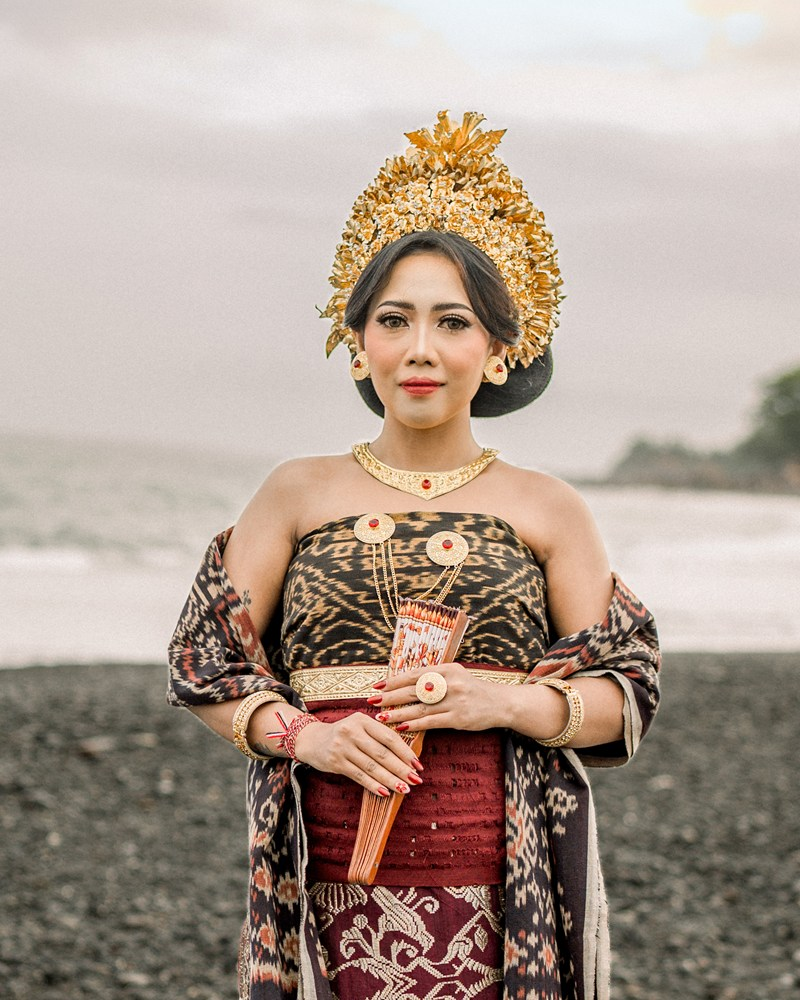
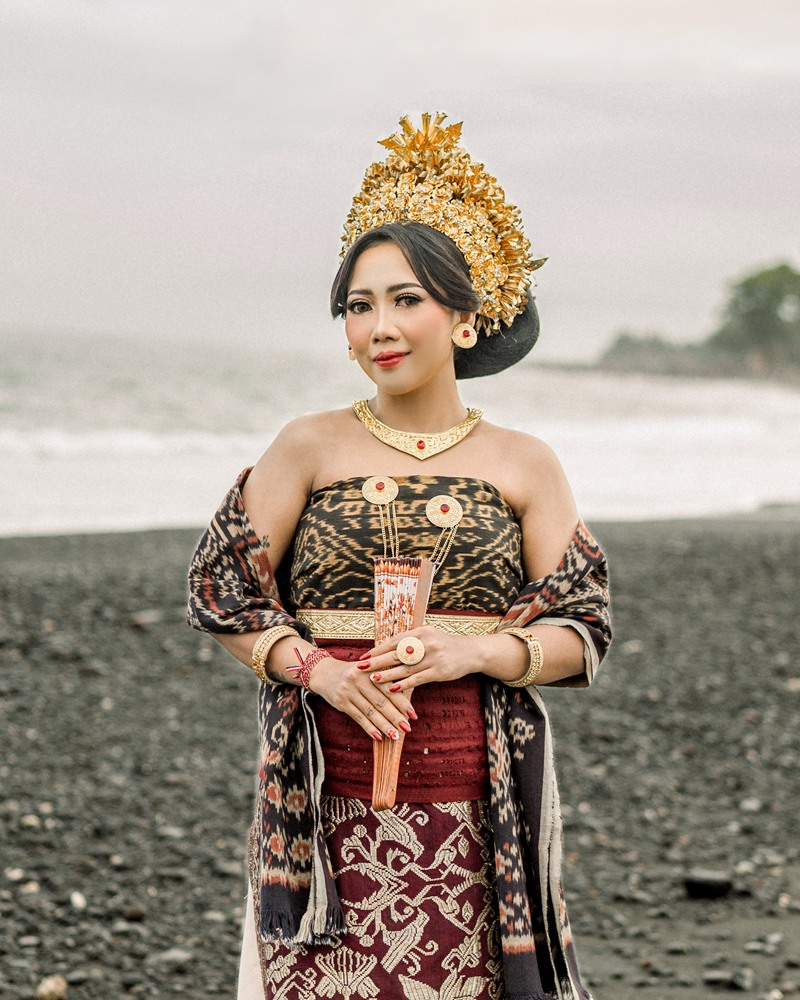
Revisi foto mempelai, kolase galeri, tipografi, dan sampul undangan

diff --git a/src/components/PhotoCollage.tsx b/src/components/PhotoCollage.tsx
@@ -1,0 +1,83 @@
+'use client';
+
+import React from 'react';
+import { GalleryPhoto } from '@/types/invitation';
+import { Reveal } from './Reveal';
+
+interface PhotoCollageProps {
+  photos: GalleryPhoto[];
+  startIndex: number;
+  onSelectPhoto: (globalIndex: number) => void;
+  title?: string;
+  sectionId?: string;
+}
+
+// Hand-placed mosaic on a 6-column grid: every tile has a different size
+// and shape (arch, leaf corners) so the collage feels loose, not like a table.
+const TILES = [
+  { area: 'col-start-1 col-end-5 row-start-1 row-end-6', shape: 'rounded-[12px] rounded-tl-[70px]', pos: 'center 30%' },
+  { area: 'col-start-5 col-end-7 row-start-1 row-end-4', shape: 'rounded-t-full rounded-b-[12px]', pos: 'center 25%' },
+  { area: 'col-start-5 col-end-7 row-start-4 row-end-9', shape: 'rounded-[12px]', pos: 'center' },
+  { area: 'col-start-1 col-end-3 row-start-6 row-end-13', shape: 'rounded-[12px] rounded-bl-[60px]', pos: 'center 40%' },
+  { area: 'col-start-3 col-end-5 row-start-6 row-end-9', shape: 'rounded-full', pos: 'center 30%' },
+  { area: 'col-start-3 col-end-7 row-start-9 row-end-13', shape: 'rounded-[12px] rounded-br-[70px]', pos: 'center 35%' },
+  { area: 'col-start-1 col-end-7 row-start-13 row-end-17', shape: 'rounded-[12px] rounded-tr-[80px] rounded-bl-[80px]', pos: 'center 45%' },
+];
+
+export function PhotoCollage({ photos, startIndex, onSelectPhoto, title, sectionId }: PhotoCollageProps) {
+  const items = photos.slice(0, TILES.length);
+  if (items.length === 0) return null;
+
+  return (
+    <section data-id={sectionId} className="w-full py-[22px] md:py-[32px]">
+      {title && (
+        <div className="max-w-[1140px] mx-auto px-[20px] pt-[12px] pb-[18px] text-center">
+          <Reveal variant="fadeInUp" className="flex justify-center mb-[10px]">
+            <img src="/images/divider-gold.svg" alt="" aria-hidden="true" className="w-[100px] h-auto mx-auto" />
+          </Reveal>
+          <Reveal variant="fadeInUp">
+            <h2 className="font-dynalight text-[35px] md:text-[45px] leading-[1.2] font-normal text-[#A59071]">
+              {title}
+            </h2>
+          </Reveal>
+        </div>
+      )}
+
+      <div className="max-w-[560px] mx-auto px-[12px] md:px-[24px]">
+        <div className="grid grid-cols-6 auto-rows-[40px] md:auto-rows-[58px] gap-[8px]">
+          {items.map((photo, idx) => {
+            const tile = TILES[idx];
+            return (
+              <Reveal
+                key={photo.id}
+                variant={idx % 3 === 0 ? 'zoomIn' : 'fadeInUp'}
+                delayMs={(idx % 3) * 120}
+                className={`${tile.area} h-full`}
+              >
+                <button
+                  type="button"
+                  onClick={() => onSelectPhoto(startIndex + idx)}
+                  aria-label={`Lihat foto ${photo.alt}`}
+                  className={`group relative block w-full h-full overflow-hidden cursor-zoom-in shadow-[0_14px_30px_-18px_rgba(60,40,10,0.7)] focus:outline-none focus-visible:ring-2 focus-visible:ring-[#A48C4D] ${tile.shape}`}
+                >
+                  <img
+                    src={photo.src}
+                    alt={photo.alt}
+                    loading="lazy"
+                    draggable={false}
+                    className="absolute inset-0 w-full h-full object-cover transition-transform duration-[1200ms] ease-out group-hover:scale-[1.05]"
+                    style={{ objectPosition: tile.pos }}
+                  />
+                  <span
+                    aria-hidden="true"
+                    className={`pointer-events-none absolute inset-[5px] border border-white/40 ${tile.shape}`}
+                  />
+                </button>
+              </Reveal>
+            );
+          })}
+        </div>
+      </div>
+    </section>
+  );
+}

diff --git a/src/components/InvitationClient.tsx b/src/components/InvitationClient.tsx
@@ -8,6 +8,7 @@ import { QuoteSection } from './QuoteSection';
 import { CoupleSection } from './CoupleSection';
 import { EventSection } from './EventSection';
 import { MasonryGallery } from './MasonryGallery';
+import { PhotoCollage } from './PhotoCollage';
 import { GuestbookSection } from './GuestbookSection';
 import { FooterSection } from './FooterSection';
 import { AudioPlayerHandle, FloatingAudioPlayer } from './FloatingAudioPlayer';
@@ -24,6 +25,11 @@ function sanitizeGuestName(raw: string | null | undefined): string {
   const cleaned = raw.replace(/\+/g, ' ').replace(/\\(['"\\])/g, '$1').trim();
   return cleaned;
 }
+
+// Collage under the Rg Veda: 7 hand-picked photos, mixed from every set
+const COLLAGE_IDS = ['g2-1', 'g1-6', 'g4-3', 'g1-3', 'g2-5', 'g2-2', 'g1-1'];
+// Single featured photo near the end before closing
+const FEATURED_END_IDS = ['g4-1'];
 
 export function InvitationClient({
   data,
@@ -49,15 +55,18 @@ export function InvitationClient({
     }
   }, []);
 
-  const gallery1Photos = useMemo(
-    () => [...data.galleries.part1, ...data.galleries.part2],
-    [data.galleries.part1, data.galleries.part2]
-  );
-
-  const gallery2Photos = useMemo(
-    () => [...data.galleries.part3, ...data.galleries.part4],
-    [data.galleries.part3, data.galleries.part4]
-  );
+  const [gallery1Photos, gallery2Photos] = useMemo(() => {
+    const all = [
+      ...data.galleries.part1,
+      ...data.galleries.part2,
+      ...data.galleries.part3,
+      ...data.galleries.part4,
+    ];
+    const byId = new Map(all.map((p) => [p.id, p]));
+    const pick = (ids: string[]) =>
+      ids.map((id) => byId.get(id)).filter((p): p is NonNullable<typeof p> => Boolean(p));
+    return [pick(COLLAGE_IDS), pick(FEATURED_END_IDS)];
+  }, [data.galleries]);
 
   const allPhotos = useMemo(
     () => [...gallery1Photos, ...gallery2Photos],
@@ -102,8 +111,8 @@ export function InvitationClient({
           translation={data.sloka.translation}
         />
 
-        {/* 3. Galeri Slideshow 1 (setelah Rg Veda) */}
-        <MasonryGallery
+        {/* 3. Galeri Kolase (setelah Rg Veda) */}
+        <PhotoCollage
           sectionId="gallery-part-1"
           title="Galeri Wedding"
           photos={gallery1Photos}
@@ -135,6 +144,7 @@ export function InvitationClient({
           photos={gallery2Photos}
           startIndex={gallery1Photos.length}
           onSelectPhoto={setActivePhotoIndex}
+          showThumbs={false}
         />
 
         {/* 8. Couple Banner + Closing Footer */}

diff --git a/src/components/MasonryGallery.tsx b/src/components/MasonryGallery.tsx
@@ -11,6 +11,7 @@ interface MasonryGalleryProps {
   onSelectPhoto: (globalIndex: number) => void;
   title?: string;
   sectionId?: string;
+  showThumbs?: boolean;
 }
 
 const SLIDE_MS = 5000;
@@ -22,6 +23,7 @@ export function MasonryGallery({
   onSelectPhoto,
   title,
   sectionId,
+  showThumbs = true,
 }: MasonryGalleryProps) {
   const [current, setCurrent] = useState(0);
   const [held, setHeld] = useState(false); // finger / mouse is on the stage
@@ -165,14 +167,16 @@ export function MasonryGallery({
             />
 
             {/* counter + expand */}
-            <div className="pointer-events-none absolute left-5 bottom-6 z-30 flex items-baseline gap-1.5 text-white">
-              <span className="font-lora text-[26px] leading-none text-[#F3CD8F] tabular-nums">
-                {pad(current + 1)}
-              </span>
-              <span className="font-montserrat text-[11px] tracking-[0.18em] text-white/70 tabular-nums">
-                / {pad(count)}
-              </span>
-            </div>
+            {count > 1 && (
+              <div className="pointer-events-none absolute left-5 bottom-6 z-30 flex items-baseline gap-1.5 text-white">
+                <span className="font-lora text-[26px] leading-none text-[#F3CD8F] tabular-nums">
+                  {pad(current + 1)}
+                </span>
+                <span className="font-montserrat text-[11px] tracking-[0.18em] text-white/70 tabular-nums">
+                  / {pad(count)}
+                </span>
+              </div>
+            )}
             <span
               aria-hidden="true"
               className="pointer-events-none absolute right-5 bottom-6 z-30 w-8 h-8 rounded-full bg-black/35 border border-white/25 text-white/90 flex items-center justify-center"
@@ -197,7 +201,7 @@ export function MasonryGallery({
           </div>
 
           {/* Thumbnails */}
-          {count > 1 && (
+          {showThumbs && count > 1 && (
             <div
               ref={thumbsContainerRef}
               className="mt-4 flex items-center gap-2.5 overflow-x-auto py-1.5 px-1 no-scrollbar"

diff --git a/src/components/GuestbookSection.tsx b/src/components/GuestbookSection.tsx
@@ -156,7 +156,7 @@ export function GuestbookSection({
                 rows={4}
                 maxLength={500}
                 aria-label="Ucapan"
-                className="w-full bg-[#FFFCF6] border border-[#E6DCC6] rounded-[12px] px-[14px] py-[11px] text-[14px] italic text-[#4f483d] placeholder:italic placeholder:text-[#ACA89F] focus:outline-none focus:border-[#A48C4D] resize-y"
+                className="w-full bg-[#FFFCF6] border border-[#E6DCC6] rounded-[12px] px-[14px] py-[11px] text-[14px] text-[#4f483d] placeholder:text-[#ACA89F] focus:outline-none focus:border-[#A48C4D] resize-y"
               />
               {message.length > 0 && (
                 <div className="text-right text-[11px] text-[#989692] mt-[2px]">

diff --git a/src/components/CoverModal.tsx b/src/components/CoverModal.tsx
@@ -103,7 +103,7 @@ export function CoverModal({
           <div style={fadeText} className="self-end pb-9 flex flex-col items-center">
             <img src="/images/divider-gold.svg" alt="" className="w-[130px] h-auto mb-4 opacity-90" />
             <p className="font-montserrat text-[10px] md:text-[11px] font-medium tracking-[0.22em] uppercase text-white/70 leading-relaxed">
-              KEPADA BAPAK/IBU/SAUDARA/SAUDARI
+              KEPADA BAPAK / IBU / SAUDARA / SAUDARI
             </p>
             <p className="namatamu my-2.5 font-lora text-[24px] md:text-[26px] leading-[32px] font-medium text-white/95 break-words max-w-[90vw]">
               {guestName}

diff --git a/src/components/QuoteSection.tsx b/src/components/QuoteSection.tsx
@@ -27,7 +27,10 @@ export function QuoteSection({ sanskrit, source, translation }: QuoteSectionProp
         <Reveal variant="fadeInUp">
           <div className="bg-[#F3CBA8] mb-[20px]">
             <div className="bg-white py-[35px] px-[20px] md:py-[55px] md:px-[50px] text-center">
-              <p className="font-lora italic font-medium text-[16px] md:text-[17px] leading-[1.7] text-[#81734D] mb-[20px]">
+              <p
+                className="font-lora italic font-medium text-[16px] md:text-[17px] leading-[1.7] text-[#81734D] mb-[20px]"
+                style={{ transform: 'skewX(-9deg)' }}
+              >
                 {sanskrit}
               </p>
 
